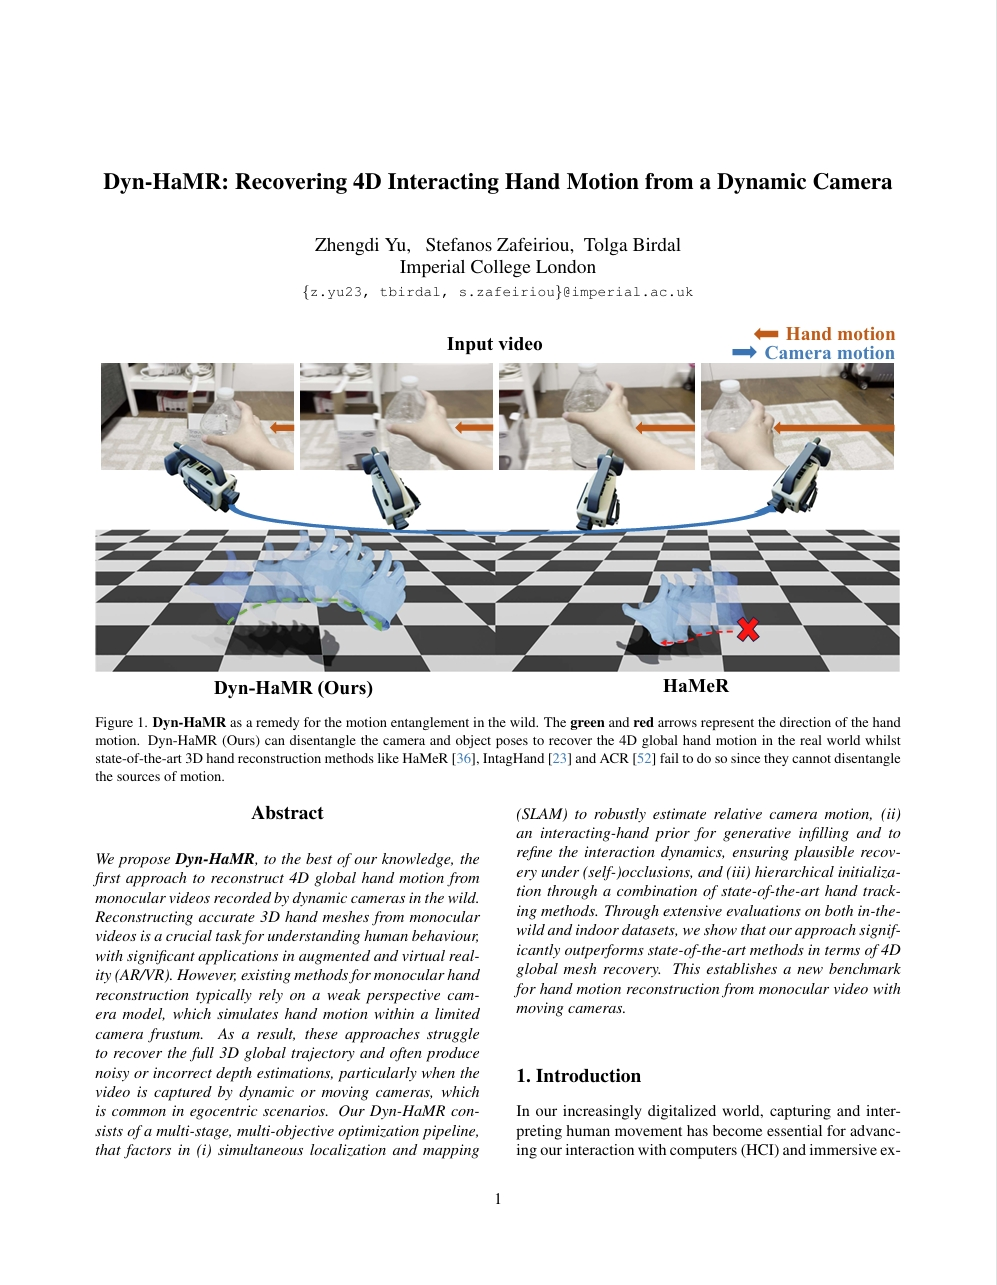
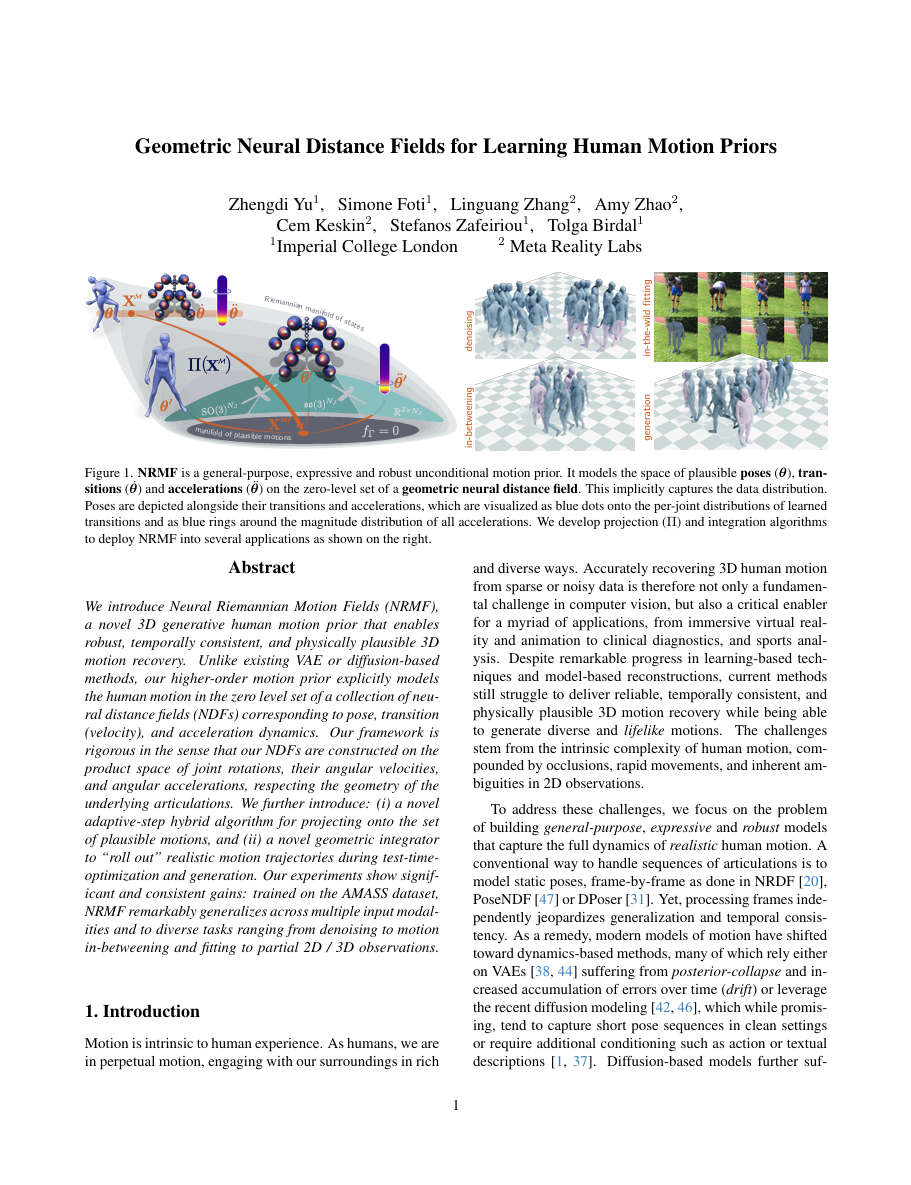
update

diff --git a/NRMF/index.html b/NRMF/index.html
@@ -396,7 +396,7 @@
   <strong>NRMF</strong> into several applications as shown on the right.
     </p>
     <div style="text-align: center; margin-top: 20px;">
-        <img src="static/images/teaser.png" alt="Method Overview Diagram" style="width: 100%; max-width: 700px; border-radius: 10px;">
+        <img src="static/images/overview.png" alt="Method Overview Diagram" style="width: 100%; max-width: 700px; border-radius: 10px;">
     </div>
     
     <p style="text-align: justify;">
